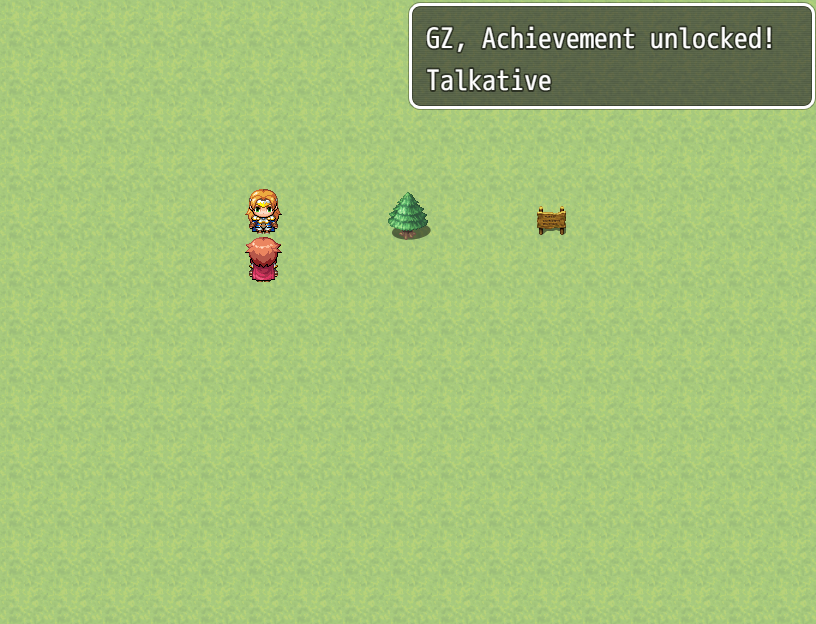
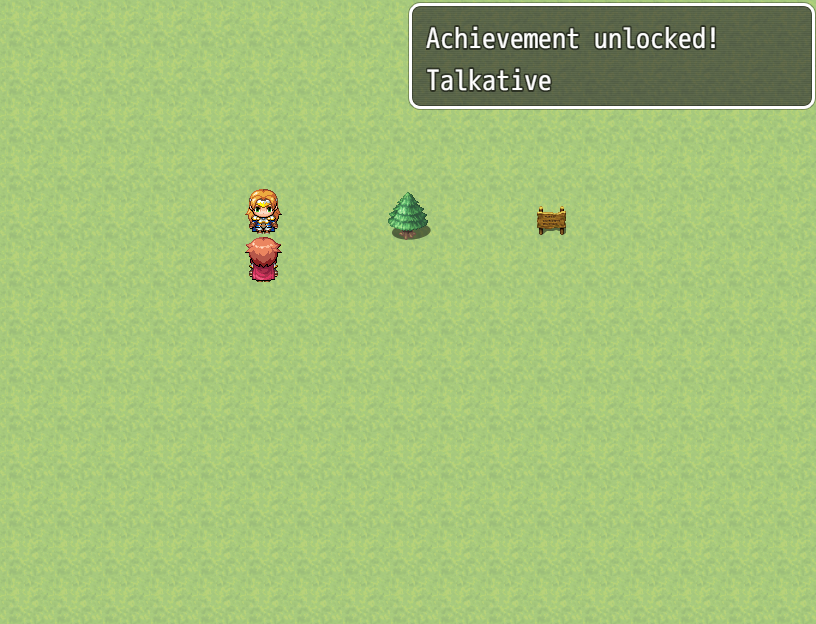
Added screenshot in readme.md

Changed region(s): [[0.5208, 0.0304, 0.9498, 0.0913]]

diff --git a/Example/Achievements/js/plugins.js b/Example/Achievements/js/plugins.js
@@ -2,5 +2,5 @@
 // Do not edit this file directly.
 var $plugins =
 [
-{"name":"Achievements","status":true,"description":"Achievements system.","parameters":{"-- Achievements --":"","Achievements text":"Achievements","Achievement unlocked text":"GZ, Achievement unlocked!","Achievement unlocked timer":"240","-- Settings --":"","First switch text":"500","Images directory":"img/achievements","Locked image":"locked"}}
+{"name":"Achievements","status":true,"description":"Pivert Achievements system.","parameters":{"-- Achievements --":"","Achievements text":"Achievements","Achievement unlocked text":"Achievement unlocked!","Achievement unlocked timer":"240","Achievement unlocked SE":"Item1","-- Settings --":"","Initial switch":"500","Images directory":"img/achievements","Locked image":"locked"}}
 ];

diff --git a/README.md b/README.md
@@ -9,6 +9,8 @@ To unlock an achievement, simply use the following module command in an event :
 Achievements unlock <achievement id>
 ```
 
+![Achievement unlocked](https://raw.githubusercontent.com/PicusViridis/RPG-Maker-MV-Achievements/master/Screenshots/Achievement%20unlocked!.png)
+
 # Achievements.json
 
 Place a file named Achievements.json under the data directory.
